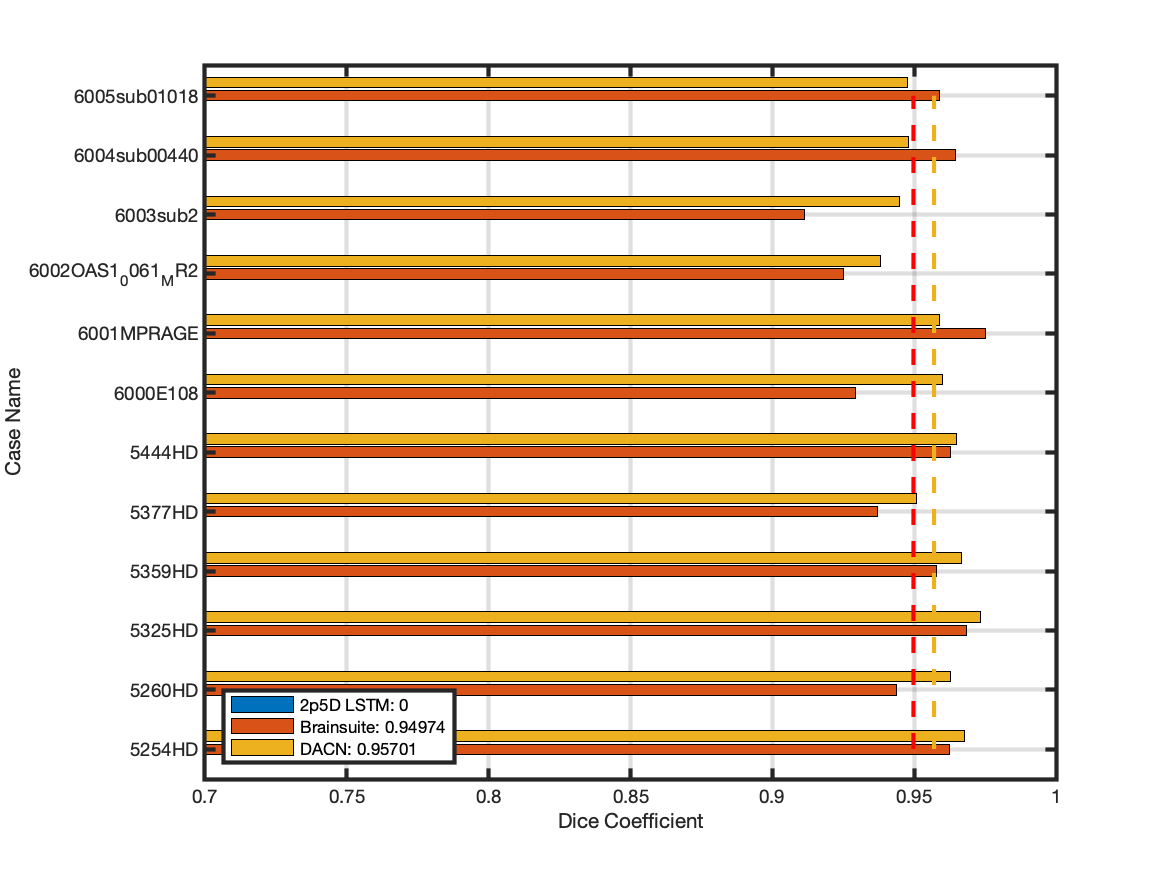
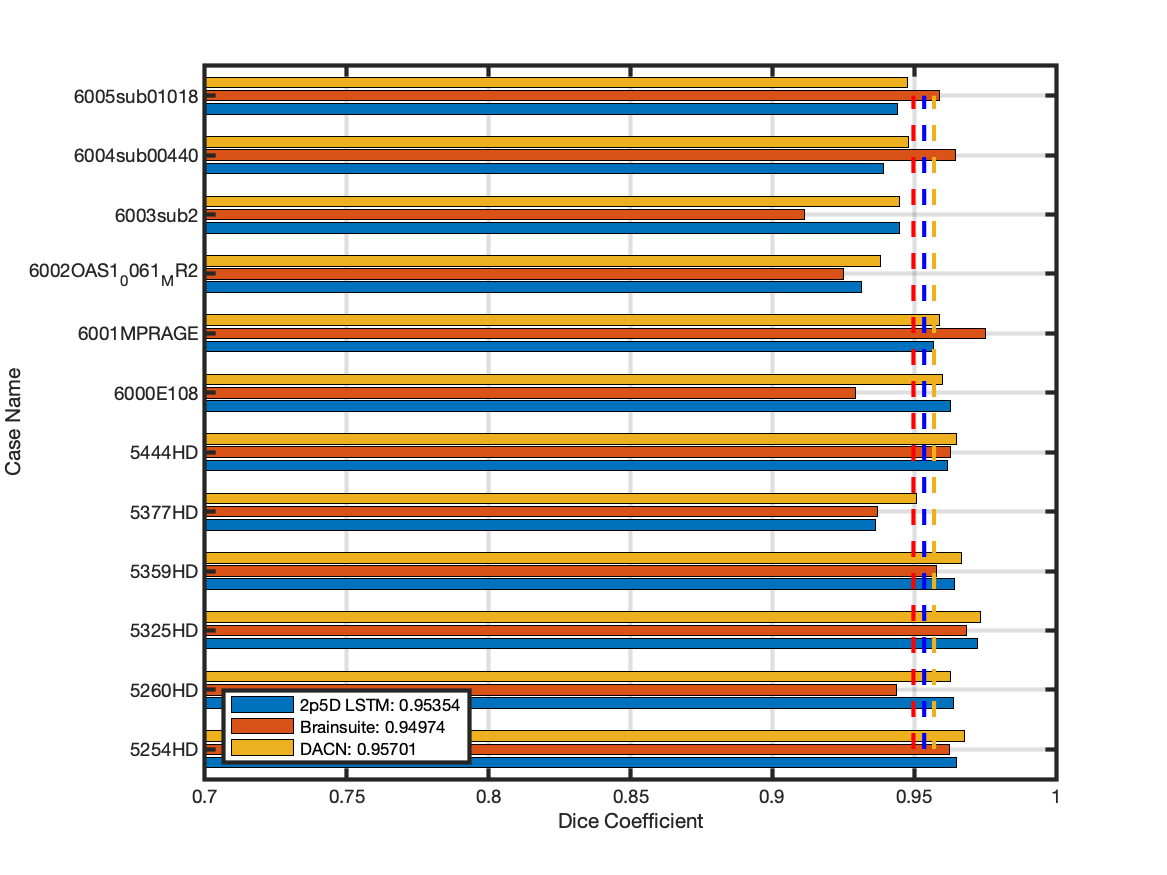
av3

diff --git a/network.py b/network.py
@@ -74,13 +74,14 @@ class UNet(object):
             block1_temp = tf.expand_dims(block1_temp, 1)
             block1_lstm = tf.concat([block1_lstm, block1_temp], 1)
         print('block1_lstm shape: ', block1_lstm.get_shape())
+        """
         lstm_inputs_1 = block1_lstm
         cell1 = tf.contrib.rnn.ConvLSTMCell(conv_ndims=2, input_shape=[64, 64, 384], output_channels=384, kernel_shape=[3, 3])
         initial_state = cell1.zero_state(batch_size=self.conf.batch, dtype=tf.float32)
         output, final_state = tf.nn.dynamic_rnn(cell1, lstm_inputs_1, dtype=tf.float32, time_major=False, initial_state=initial_state, scope='rnn1')
         block1 = block1 + final_state.h
         # == +++++++++++++++++++++++++++++++++++++++++++++
-
+        """
         print('dense block 1:      ', block1.get_shape())
 
         # -------------------------------------------------- #
@@ -108,13 +109,14 @@ class UNet(object):
             block2_temp = tf.expand_dims(block2_temp, 1)
             block2_lstm = tf.concat([block2_lstm, block2_temp], 1)
         print('block2_lstm shape: ', block2_lstm.get_shape())
+        """
         lstm_inputs_2 = block2_lstm
         cell2 = tf.contrib.rnn.ConvLSTMCell(conv_ndims=2, input_shape=[32, 32, 768], output_channels=768, kernel_shape=[3, 3])
         initial_state = cell2.zero_state(batch_size=self.conf.batch, dtype=tf.float32)
         output, final_state = tf.nn.dynamic_rnn(cell2, lstm_inputs_2, dtype=tf.float32, time_major=False, initial_state=initial_state, scope='rnn2')
         block2 = block2 + final_state.h
         # == +++++++++++++++++++++++++++++++++++++++++++++
-
+        """
         print('dense block 2:        ', block2.get_shape())
 
         # -------------------------------------------------- #
@@ -127,7 +129,7 @@ class UNet(object):
         # 8: dense block 3
         name = 'dense_block3-'
         block3 = self.dense_block(outputs, name + '/dense', 36, is_train=self.is_train)
-        """
+
         # == LSTM part +++++++++++++++++++++++++++++++++
         block3_init = block2_lstm[:, 0, :, :, :]
         block3_init = ops.conv2d(block3_init, rate_field, 384, (1, 1), 'dense_block2-conv11', is_train=False, bias=False, reuse=True)
@@ -142,6 +144,7 @@ class UNet(object):
             block3_temp = tf.expand_dims(block3_temp, 1)
             block3_lstm = tf.concat([block3_lstm, block3_temp], 1)
         print('block3_lstm shape: ', block3_lstm.get_shape())
+        """
         lstm_inputs_3 = block3_lstm
         cell3 = tf.contrib.rnn.ConvLSTMCell(conv_ndims=2, input_shape=[16, 16, 2112], output_channels=2112, kernel_shape=[3, 3])
         initial_state = cell3.zero_state(batch_size=self.conf.batch, dtype=tf.float32)
@@ -162,7 +165,7 @@ class UNet(object):
         name = 'dense_block4-'
         block4 = self.dense_block(outputs, name + '/dense', 24, is_train=self.is_train)
         block4 = ops.conv2d(block4, rate_field, 2112, (1, 1), name + '/conv11', is_train=self.is_train, bias=False)
-        """
+
         # == LSTM part +++++++++++++++++++++++++++++++++
         block4_init = block3_lstm[:, 0, :, :, :]
         block4_init = ops.conv2d(block4_init, rate_field, 1056, (1, 1), 'dense_block3-conv11', is_train=False, bias=False, reuse=True)
@@ -179,6 +182,7 @@ class UNet(object):
             block4_temp = tf.expand_dims(block4_temp, 1)
             block4_lstm = tf.concat([block4_lstm, block4_temp], 1)
         print('block4_lstm shape: ', block4_lstm.get_shape())
+        """
         lstm_inputs_4 = block4_lstm
         cell4 = tf.contrib.rnn.ConvLSTMCell(conv_ndims=2, input_shape=[8, 8, 2112], output_channels=2112, kernel_shape=[3, 3])
         initial_state = cell4.zero_state(batch_size=self.conf.batch, dtype=tf.float32)
@@ -199,6 +203,21 @@ class UNet(object):
         w = 2 * outputs.shape[2]
         outputs = ops.conv2d(outputs, rate_field, 768, (3, 3), name+'/conv33', is_train=self.is_train, bias=False)
         print('up-sampling layer 1:       ', outputs.get_shape())
+        # == LSTM part +++++++++++++++++++++++++++++++++
+        up1_init = block4_lstm[:, 0, :, :, :]
+        up1_init = tf.image.resize_bilinear(up1_init, size=(h//2, w//2), align_corners=True, name=name+'/bilinear')
+        up1_lstm = up1_init + block3_lstm[:, 0, :, :, :]
+        up1_lstm = ops.conv2d(up1_lstm, rate_field, 768, (3, 3), name+'/conv33', is_train=False, bias=False, reuse=True)
+        up1_lstm = tf.expand_dims(up1_lstm, 1)
+        for i in range(1, 4-self.start_slice):
+            up1_var = block4_lstm[:, i, :, :, :]
+            up1_var = tf.image.resize_bilinear(up1_var, size=(h//2, w//2), align_corners=True, name=name+'/bilinear')
+            up1_temp = up1_var + block3_lstm[:, i, :, :, :]
+            up1_temp = ops.conv2d(up1_temp, rate_field, 768, (3, 3), name+'/conv33', is_train=False, bias=False, reuse=True)
+            up1_temp = tf.expand_dims(up1_temp, 1)
+            up1_lstm = tf.concat([up1_lstm, up1_temp], 1)
+        print('up1_lstm shape: ', up1_lstm.get_shape())
+        # == +++++++++++++++++++++++++++++++++++++++++++++
 
         # -------------------------------------------------- #
         # 12: up-sampling layer 2 (with block 2)
@@ -209,6 +228,22 @@ class UNet(object):
         w = 2 * outputs.shape[2]
         outputs = ops.conv2d(outputs, rate_field, 384, (3, 3), name+'/conv33', is_train=self.is_train, bias=False)
         print('up-sampling layer 2:        ', outputs.get_shape())
+        # == LSTM part +++++++++++++++++++++++++++++++++
+        up2_init = up1_lstm[:, 0, :, :, :]
+        up2_init = tf.image.resize_bilinear(up2_init, size=(h // 2, w // 2), align_corners=True, name=name + '/bilinear')
+        up2_lstm = up2_init + block2_lstm[:, 0, :, :, :]
+        up2_lstm = ops.conv2d(up2_lstm, rate_field, 384, (3, 3), name+'/conv33', is_train=False, bias=False, reuse=True)
+        up2_lstm = tf.expand_dims(up2_lstm, 1)
+        for i in range(1, 4 - self.start_slice):
+            up2_var = up1_lstm[:, i, :, :, :]
+            up2_var = tf.image.resize_bilinear(up2_var, size=(h // 2, w // 2), align_corners=True, name=name + '/bilinear')
+            up2_temp = up2_var + block2_lstm[:, i, :, :, :]
+            up2_temp = ops.conv2d(up2_temp, rate_field, 384, (3, 3), name+'/conv33', is_train=False, bias=False, reuse=True)
+            up2_temp = tf.expand_dims(up2_temp, 1)
+            up2_lstm = tf.concat([up2_lstm, up2_temp], 1)
+        print('up2_lstm shape: ', up2_lstm.get_shape())
+
+        # == +++++++++++++++++++++++++++++++++++++++++++++
 
         # -------------------------------------------------- #
         # 13: up-sampling layer 3 (with block 1)
@@ -219,8 +254,22 @@ class UNet(object):
         w = 2 * outputs.shape[2]
         outputs = ops.conv2d(outputs, rate_field, 96, (3, 3), name + '/conv33', is_train=self.is_train, bias=False)
         print('up-sampling layer 3:         ', outputs.get_shape())
+        # == LSTM part +++++++++++++++++++++++++++++++++
+        up3_init = up2_lstm[:, 0, :, :, :]
+        up3_init = tf.image.resize_bilinear(up3_init, size=(h // 2, w // 2), align_corners=True, name=name + '/bilinear')
+        up3_lstm = up3_init + block1_lstm[:, 0, :, :, :]
+        up3_lstm = ops.conv2d(up3_lstm, rate_field, 96, (3, 3), name + '/conv33', is_train=False, bias=False, reuse=True)
+        up3_lstm = tf.expand_dims(up3_lstm, 1)
+        for i in range(1, 4 - self.start_slice):
+            up3_var = up2_lstm[:, i, :, :, :]
+            up3_var = tf.image.resize_bilinear(up3_var, size=(h // 2, w // 2), align_corners=True, name=name + '/bilinear')
+            up3_temp = up3_var + block1_lstm[:, i, :, :, :]
+            up3_temp = ops.conv2d(up3_temp, rate_field, 96, (3, 3), name + '/conv33', is_train=False, bias=False, reuse=True)
+            up3_temp = tf.expand_dims(up3_temp, 1)
+            up3_lstm = tf.concat([up3_lstm, up3_temp], 1)
+        print('up3_lstm shape: ', up3_lstm.get_shape())
 
-        # -------------------------------------------------- #
+        # == +++++++++++++++++++++++++++++++++++++++++++++
         # 14: up-sampling layer 4 (with conv1)
         name = 'up4'
         outputs = tf.image.resize_bilinear(outputs, size=(h, w), align_corners=True, name=name+'/bilinear')
@@ -229,6 +278,27 @@ class UNet(object):
         w = 2 * outputs.shape[2]
         outputs = ops.conv2d(outputs, rate_field, 96, (3, 3), name + '/conv33', is_train=self.is_train, bias=False)
         print('up-sampling layer 4:          ', outputs.get_shape())
+        # == LSTM part +++++++++++++++++++++++++++++++++
+        up4_init = up3_lstm[:, 0, :, :, :]
+        up4_init = tf.image.resize_bilinear(up4_init, size=(h // 2, w // 2), align_corners=True, name=name + '/bilinear')
+        up4_lstm = up4_init + conv1_lstm[:, 0, :, :, :]
+        up4_lstm = ops.conv2d(up4_lstm, rate_field, 96, (3, 3), name + '/conv33', is_train=False, bias=False, reuse=True)
+        up4_lstm = tf.expand_dims(up4_lstm, 1)
+        for i in range(1, 4 - self.start_slice):
+            up4_var = up3_lstm[:, i, :, :, :]
+            up4_var = tf.image.resize_bilinear(up4_var, size=(h // 2, w // 2), align_corners=True, name=name + '/bilinear')
+            up4_temp = up4_var + conv1_lstm[:, i, :, :, :]
+            up4_temp = ops.conv2d(up4_temp, rate_field, 96, (3, 3), name + '/conv33', is_train=False, bias=False, reuse=True)
+            up4_temp = tf.expand_dims(up4_temp, 1)
+            up4_lstm = tf.concat([up4_lstm, up4_temp], 1)
+        print('up4_lstm shape: ', up4_lstm.get_shape())
+        lstm_inputs_up4 = up4_lstm
+        cell_up4 = tf.contrib.rnn.ConvLSTMCell(conv_ndims=2, input_shape=[128, 128, 96], output_channels=96, kernel_shape=[3, 3])
+        initial_state = cell_up4.zero_state(batch_size=self.conf.batch, dtype=tf.float32)
+        output, final_state = tf.nn.dynamic_rnn(cell_up4, lstm_inputs_up4, dtype=tf.float32, time_major=False, initial_state=initial_state, scope='rnn_up4')
+        outputs = tf.concat([outputs, final_state.h], 3)
+        print('up-sampling layer 4 with lstm:          ', outputs.get_shape())
+        # == +++++++++++++++++++++++++++++++++++++++++++++
 
         # -------------------------------------------------- #
         # 15: up-sampling layer 5

diff --git a/save_results.m b/save_results.m
@@ -3,9 +3,9 @@ clear;
 
 % masks' path
 masks_path = '../Dataset/test_data/test_data_bmp/masks/'; % mask 
-preds_path = '../predictions_lstm1/';     % pred of the network
-final_preds_path = '../png_pred_results_lstm1/'; % classified by name
-save_path = '../pred_nii/dl_pred_nii/';  % nii 
+preds_path = '../predictions_lstm2/';     % pred of the network
+final_preds_path = '../png_pred_results_lstm2/'; % classified by name
+save_path = '../pred_compare/2p5d_lstm2/';  % nii 
 
 masks_folder=dir(masks_path);
 masks_file= {masks_folder.name};

diff --git a/evaluate.m b/evaluate.m
@@ -1,7 +1,7 @@
 clc;
 clear;
 %% Evaluate 2.5d dense unet model
-prediction_path = '../pred_compare/2p5d_lstm1/';
+prediction_path = '../pred_compare/2p5d_lstm0/';
 masks_path = '../Dataset/test_data/test_data_nii/masks/';
 pred_folder= dir(prediction_path);
 pred_file={pred_folder.name};
